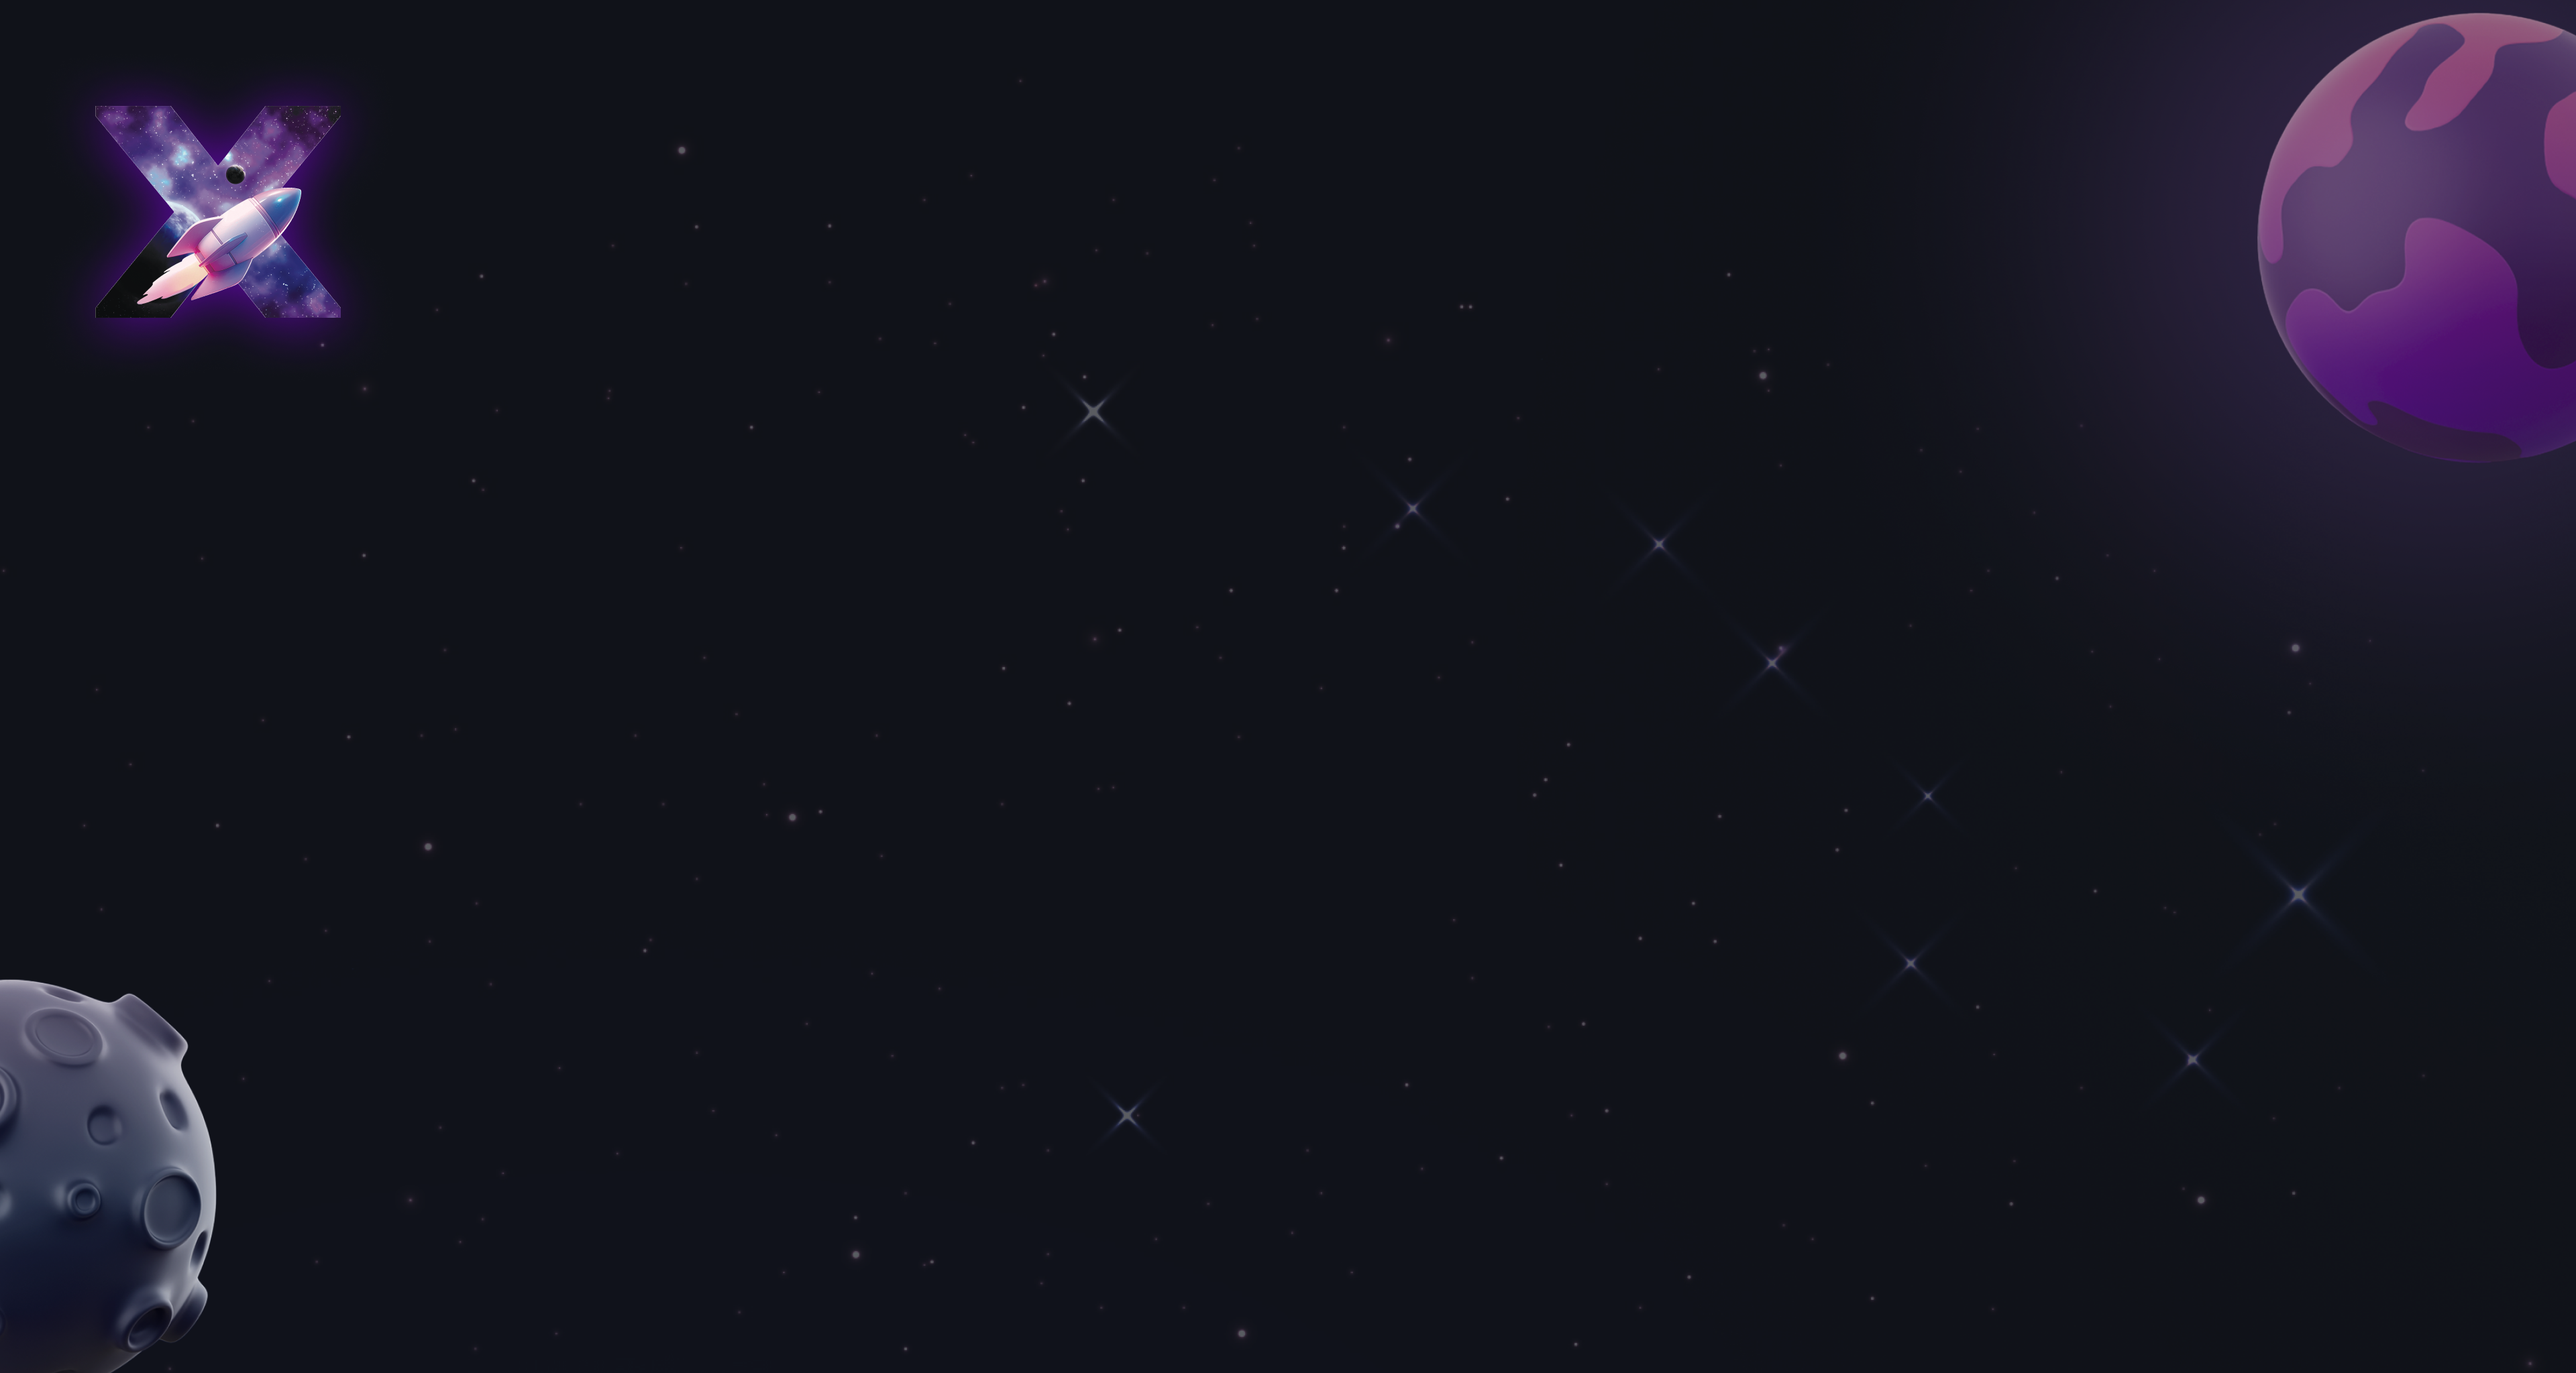
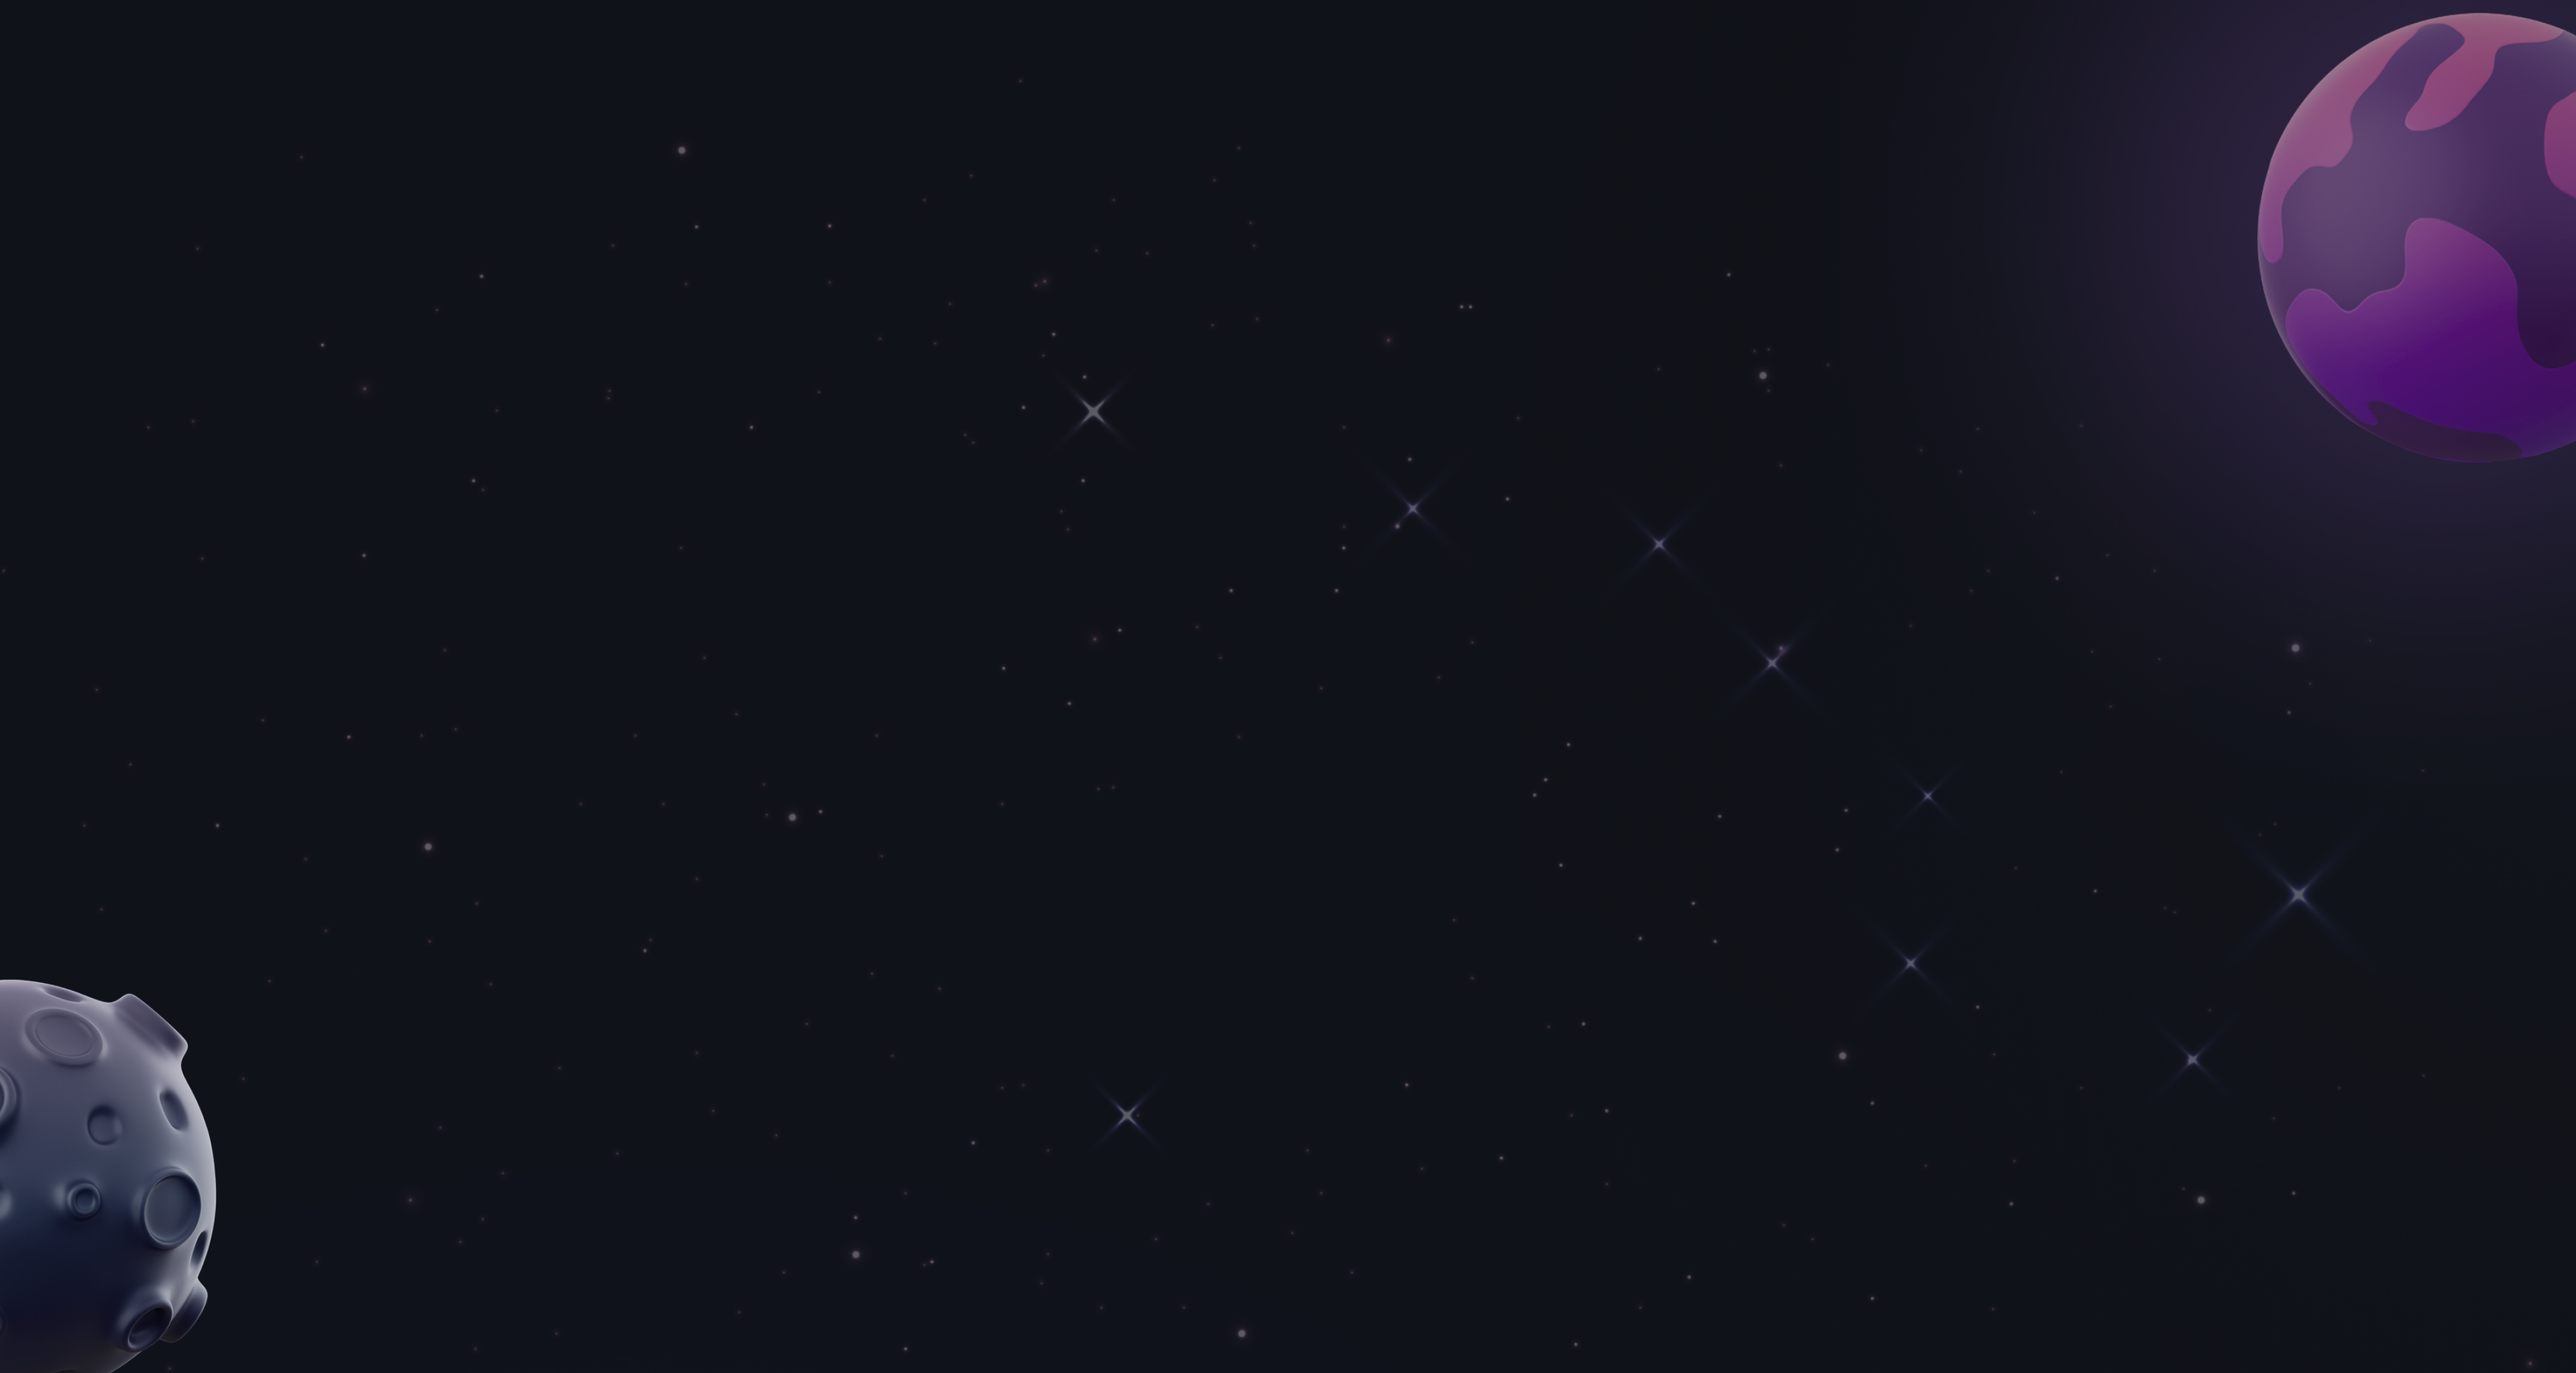
fix

Changed region(s): [[0.0312, 0.0625, 0.1562, 0.25]]

diff --git a/src/pages/IndexPage.vue b/src/pages/IndexPage.vue
@@ -5,6 +5,11 @@
         <img src="~assets/coin.png">
         <span class="text-white font-elliot">{{ gameStore.balance.toFixed(2) }}</span>
       </div>
+      <div class="logo">
+        <a :href="gameStore.redirectLink" target="_blank">
+          <img src="~assets/logo.png">
+        </a>
+      </div>
       <div ref="gameRef" >
         <GameComponent
           class="tw-max-w-[910px]"
@@ -34,14 +39,14 @@ const decodedData = computed(() => route.query.data as string)
 const encodedData = computed(() => getParams(encodeString(decodedData.value)))
 
 watch(encodedData, () => {
-  gameStore.promo = encodedData.value?.promo || ''
-  gameStore.redirectLink = encodedData.value?.link || ''
+  gameStore.promo = encodedData.value?.promo || 'SHORTS'
+  gameStore.redirectLink = encodedData.value?.link || 'http://jj.su/uakHir'
 }, {immediate: true})
 
 const scaleValue = computed(() => {
   if (!gameRef.value) return 'scale(1)'
 
-  const targetWidth = Screen.width > 800 ? Screen.width * 0.45 : Screen.width * 0.8
+  const targetWidth = Screen.width > 800 ? Screen.width * 0.65 : Screen.width * 0.8
   const elementWidth = gameRef.value.offsetWidth
 
   const scale = targetWidth / elementWidth
@@ -57,6 +62,16 @@ const scaleValue = computed(() => {
 
   @media (max-width: 800px) {
     translate: 0 calc(-100% - 20px);
+  }
+}
+
+.logo {
+  @apply tw-absolute tw-top-[-20px] tw-left-0 tw-cursor-pointer;
+  translate: calc(100% - 385px) 0;
+
+  @media (max-width: 800px) {
+    left: 50%;
+    translate: -50% calc(-100% - 20px);
   }
 }
 

diff --git a/src/stores/game.store.ts b/src/stores/game.store.ts
@@ -25,8 +25,8 @@ export const useGameStore = defineStore('game', () => {
   const bet = ref(0)
   const betMade = ref(false)
 
-  const autoStop = ref(false)
-  const autoStopCoefficient = ref(0)
+  const autoStop = ref(true)
+  const autoStopCoefficient = ref(2)
 
   const resetStore = () => {
     coefficient.value = 0
